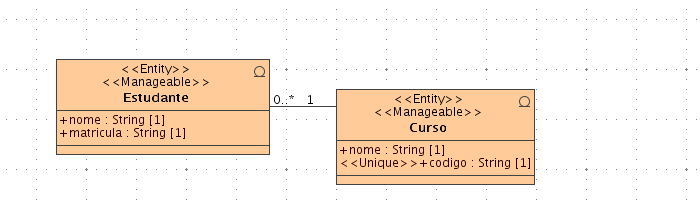
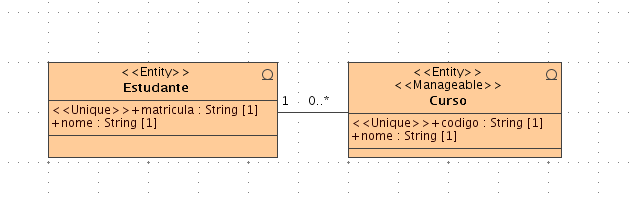
Corrigindo erros no tutorial.

Changed region(s): [[0.0603, 0.27, 0.9048, 0.93]]

diff --git a/chapter-03.tex b/chapter-03.tex
@@ -3,7 +3,7 @@
 Neste capítulo iremos construir um projeto básico usando o MDArte. O projeto
 consistirá de um sistema web simples para administrar um ambiente acadêmico,
 onde poderemos cadastrar cursos e gerenciar suas informações, bem como inserir
-alunos, inscrevê-los nos e gerenciar suas informações.
+alunos, inscrevê-los nos cursos e gerenciar suas informações.
 
 \section{Criação de um Novo Projeto}
 
@@ -101,10 +101,6 @@ Exemplo:
 \begin{framed}
 	\lstinputlisting[language=xml]{files/xml/ControleAcesso-ds.xml}
 \end{framed}
-
-Note que no exemplo anterior o \texttt{Controle de Acesso} estará utilizando a
-mesma base de dados do projeto \texttt{SistemaAcademico}, definida pela tag
-\texttt{<connection-url>}.
 
 Agora, adicionaremos as configurações de login para o Controle de Acesso no
 servidor \texttt{JBoss}. Para tal, editaremos o arquivo
@@ -268,7 +264,7 @@ e “1” para a entidade \texttt{Curso}, como na figura
 \end{figure}
 	
 \item A associação deve ser dupla, tanto \texttt{Estudant} e quanto
-\texttt{Curso} devem conseguir se enchergar, além disso sua \texttt{Visibility}
+\texttt{Curso} devem conseguir se enxergar, além disso sua \texttt{Visibility}
 deve ser \texttt{public}. Mantenha a \texttt{checkbox} \texttt{Navigable}
 marcada na associação para as duas classes. Para isso, clique no botão “...”
 (reticências) da tela anterior, como na imagem
@@ -337,16 +333,7 @@ pode ser visto na imagem \ref{resultado_moduloweb_principal}.
 \item Dentro do módulo \texttt{'geral'}, abriremos o pacote
 \texttt{consultarEstudante} e editaremos a especificação do \texttt{usecase}
 \texttt{ConsultaEstudanteUC}, adicionando a ele o estereótipo
-\texttt{«FrontEndApplication»}, o resultado
-pode ser visto na imagem \ref{resultado_usecase_principal}.
-
-\begin{figure}[H]
-	\centering
-	\includegraphics[width=300pt,height=300pt]{files/imgs/tutorial-mdarte-0025.png}
-	\caption{Arvore de diretórios do projeto após a importação dos CRUD gerados
-	automaticamente.}
-	\label{resultado_usecase_principal}
-\end{figure}
+\texttt{«FrontEndApplication»}.
 
 \item Agora precisamos regerar o projeto, bem como os módulos separados, para
 isso, executaremos então os comandos:
@@ -523,7 +510,7 @@ de origem e arraste a seta até a classe destino, como na imagem
 \ref{resultado_diagrama_classe_servico}.
 \begin{figure}[H]
 	\centering
-	\includegraphics[width=360pt,height=350pt]{files/imgs/tutorial-mdarte-0011.png}
+	\includegraphics[width=300pt,height=230pt]{files/imgs/tutorial-mdarte-0011.png}
 	\caption{Diagrama de classe completo do módulo de serviço para a classe
 	Estudante.}
 	\label{resultado_diagrama_classe_servico}
@@ -653,7 +640,9 @@ e clicaremos então no botão de \texttt{Start} (Verde), como na imagem
 
 Para acessar o sistema, abriremos o navegador e acessaremos a url
 \texttt{http://localhost:8080/sistemaacademico/}. Primeiramente será aberta a
-página de login do sistema, como na imagem \ref{pagina_login}:
+página de login do sistema, como na imagem \ref{pagina_login}.
+
+O usuário padrão criado pelo script rodado é 'su' e a senha 'su'.
 \begin{figure}[H]
 	\centering
 	\includegraphics[width=300pt,height=250pt]{files/imgs/tutorial-mdarte-0013.png}
@@ -662,13 +651,6 @@ página de login do sistema, como na imagem \ref{pagina_login}:
 \end{figure}
 
 Feito o login, a tela inicial do sistema será aberta como na imagem
-\ref{pagina_inicial}.
-\begin{figure}[H]
-	\centering
-	\includegraphics[width=400pt,height=320pt]{files/imgs/tutorial-mdarte-0017.png}
-	\caption{Página incial do Sistema Acadêmico.}
-	\label{pagina_inicial}
-\end{figure}
 
 Ao clicar no botão \texttt{Consulta Estudante} seremos redirecionados para a
 página de consulta no caso de uso de mesmo nome como na imagem
